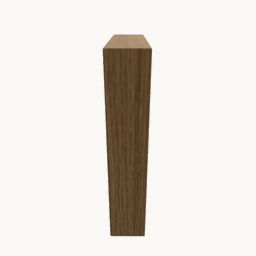
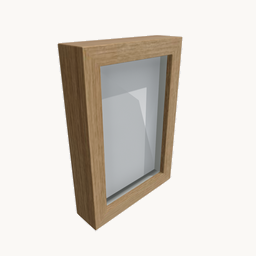
Rotations: blue_alarm 180, frame_oak 90, green_attached_container 270; v17

Changed region(s): [[0.2188, 0.125, 0.7188, 0.9375]]

diff --git a/docs/gallery.html b/docs/gallery.html
@@ -222,7 +222,7 @@
         card.onkeydown = (e) => { if (e.key === 'Enter') go(); };
 
         const thumb = obj.thumb
-          ? `<img src="objects/${obj.id}/thumb.png?v=16" alt="${escapeHtml(obj.label)}" loading="lazy" onerror="this.parentElement.innerHTML='<div class=placeholder>&#9645;</div>'">`
+          ? `<img src="objects/${obj.id}/thumb.png?v=17" alt="${escapeHtml(obj.label)}" loading="lazy" onerror="this.parentElement.innerHTML='<div class=placeholder>&#9645;</div>'">`
           : '<div class="placeholder">&#9645;</div>';
         card.innerHTML = `
           <div class="frame">${thumb}</div>

diff --git a/wiki/gallery.html b/wiki/gallery.html
@@ -222,7 +222,7 @@
         card.onkeydown = (e) => { if (e.key === 'Enter') go(); };
 
         const thumb = obj.thumb
-          ? `<img src="objects/${obj.id}/thumb.png?v=16" alt="${escapeHtml(obj.label)}" loading="lazy" onerror="this.parentElement.innerHTML='<div class=placeholder>&#9645;</div>'">`
+          ? `<img src="objects/${obj.id}/thumb.png?v=17" alt="${escapeHtml(obj.label)}" loading="lazy" onerror="this.parentElement.innerHTML='<div class=placeholder>&#9645;</div>'">`
           : '<div class="placeholder">&#9645;</div>';
         card.innerHTML = `
           <div class="frame">${thumb}</div>

diff --git a/wiki/render_thumbnails.py b/wiki/render_thumbnails.py
@@ -56,12 +56,13 @@ POSE_OVERRIDE = {
 # Per-object camera-direction override (object frame, +z up), for objects whose
 # default 3/4 view faces an uninteresting side.
 VIEW_OVERRIDE = {
-    "blue_alarm": np.array([-0.283, 1.131, 0.4]),  # front-3/4 rotated 45deg about +z
+    "blue_alarm": np.array([-0.6, -1.0, 0.4]),   # front-3/4 rotated 180deg about +z
     "blue_vase": np.array([1.0, 0.65, 0.55]),    # default view rotated 90deg about +z
     "clock": np.array([0.248, 1.166, 0.55]),     # default 3/4 view rotated 135deg about +z
     "donut_light": np.array([1.0, 0.65, 0.55]),  # default view rotated 90deg about +z
-    "frame_oak": np.array([1.166, -0.248, 0.55]),  # default view rotated 45deg about +z
+    "frame_oak": np.array([1.0, 0.65, 0.55]),    # default view rotated 90deg about +z
     "frog_cup": np.array([1.0, 0.65, 0.55]),       # default view rotated 90deg about +z
+    "green_attached_container": np.array([-1.0, -0.65, 0.55]),  # default view rotated 270deg
     "balloon_whisk": np.array([1.0, 0.65, 0.55]),  # default view rotated 90deg about +z
     "black_holder_with_handle": np.array([-0.541, -1.063, 0.55]),  # default view rotated 300deg
     "container_pink": np.array([1.098, 0.466, 0.55]),  # default view rotated 80deg about +z
